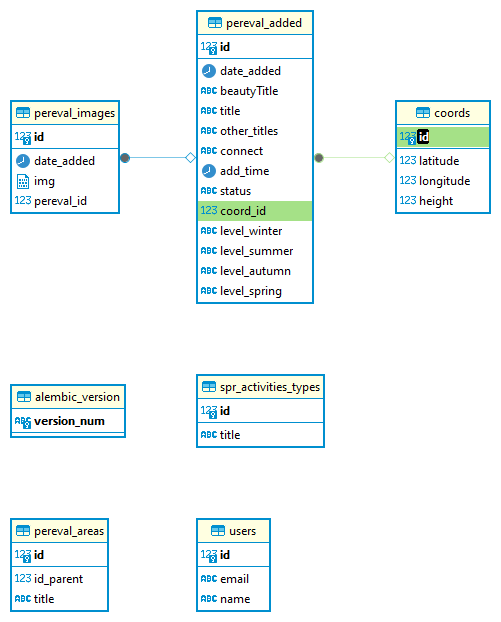
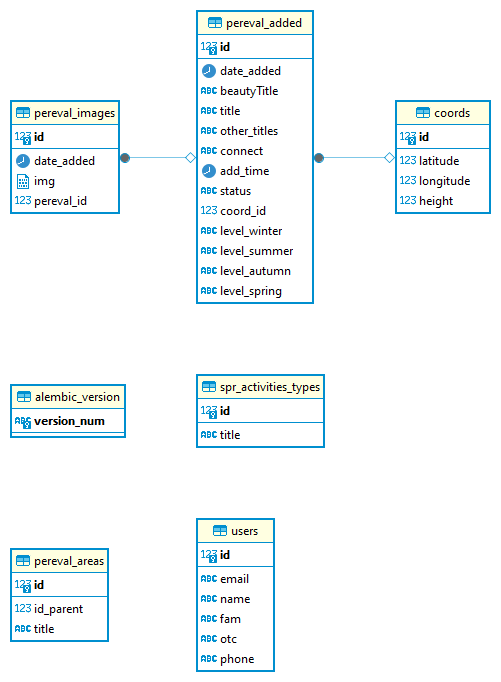
комментар кщroot

diff --git a/src/services/crud_pereval.py b/src/services/crud_pereval.py
@@ -1,0 +1,59 @@
+from sqlalchemy.future import select
+from db.db import db_dependency
+from models.pereval import PerevalAdded
+from models.users import Users
+from datetime import datetime
+from models.pereval import PerevalAdded, PerevalImages, Coords
+from schemas.pereval import PerevalCreate, ResponseMessage,User,Image,Coord,Level
+import base64
+import uuid
+from fastapi import HTTPException
+
+
+async def create_pereval(db: db_dependency, pereval: PerevalCreate) -> ResponseMessage:
+    try:
+        # Сохранение координат
+        db_coords = Coords(**pereval.coords.dict())
+        db.add(db_coords)
+        await db.commit()
+        await db.refresh(db_coords)
+
+        # Создание перевала
+        db_pereval = PerevalAdded(
+            beautyTitle=pereval.beauty_title,
+            title=pereval.title,
+            other_titles=pereval.other_titles,
+            connect=pereval.connect,
+            add_time=pereval.add_time.replace(tzinfo=None),  # Убираем временную зону
+            status="new",
+            coord_id=db_coords.id,
+            level_winter=pereval.level.winter,
+            level_summer=pereval.level.summer,
+            level_autumn=pereval.level.autumn,
+            level_spring=pereval.level.spring,
+        )
+        db.add(db_pereval)
+        await db.commit()
+        await db.refresh(db_pereval)
+
+        # Добавление изображений
+        for image in pereval.images:
+            # Декодируем изображение из base64
+            try:
+                image_data = base64.b64decode(image.data, validate=True)
+            except Exception as e:
+                raise HTTPException(status_code=400, detail=f"Ошибка при декодировании изображения: {e}")
+
+            # Сохраняем изображение в таблице
+            db_image = PerevalImages(pereval_id=db_pereval.id, img=image_data)
+            db.add(db_image)
+
+        await db.commit()
+
+        # Ответ с успехом
+        return ResponseMessage(status=200, message="Отправлено успешно", id=db_pereval.id)
+
+    except Exception as e:
+        # В случае ошибки в процессе работы с базой данных
+        return ResponseMessage(status=500, message=f"Ошибка подключения к базе данных: {str(e)}", id=None)
+

diff --git a/src/schemas/pereval.py b/src/schemas/pereval.py
@@ -1,0 +1,73 @@
+from pydantic import BaseModel, validator, HttpUrl
+from typing import Optional, List
+from datetime import datetime
+import re
+
+class Coord(BaseModel):
+    latitude: float
+    longitude: float
+    height: int
+
+
+class Level(BaseModel):
+    winter: Optional[str] = None
+    summer: Optional[str] = None
+    autumn: Optional[str] = None
+    spring: Optional[str] = None
+
+
+class Image(BaseModel):
+    data: str  # Может быть base64 или URL
+    title: str
+
+    @validator("data")
+    def validate_data(cls, value):
+        """Проверяет, является ли `data` валидным base64 или URL"""
+        if cls.is_valid_base64(value) or cls.is_valid_url(value):
+            return value
+        raise ValueError("data должно быть либо валидным base64, либо URL")
+
+    @staticmethod
+    def is_valid_base64(s: str) -> bool:
+        """Проверяет, является ли строка валидной base64"""
+        try:
+            # Длина должна быть кратна 4
+            if len(s) % 4 != 0:
+                return False
+            # Попытка декодирования
+            base64.b64decode(s, validate=True)
+            return True
+        except Exception:
+            return False
+
+    @staticmethod
+    def is_valid_url(s: str) -> bool:
+        """Проверяет, является ли строка валидным URL (изображение)"""
+        url_pattern = re.compile(r"^https?://.+\.(jpg|jpeg|png|gif|webp)$", re.IGNORECASE)
+        return bool(url_pattern.match(s))
+
+
+class User(BaseModel):
+    email: str
+    fam: str
+    name: str
+    otc: str
+    phone: str
+
+
+class PerevalCreate(BaseModel):
+    beauty_title: str
+    title: str
+    other_titles: Optional[str] = None
+    connect: Optional[str] = None
+    add_time: datetime
+    user: User
+    coords: Coord
+    level: Level
+    images: List[Image]
+
+
+class ResponseMessage(BaseModel):
+    status: int
+    message: Optional[str] = None
+    id: Optional[int] = None

diff --git a/alembic/versions/e8921e0ab629_initial_migration.py b/alembic/versions/e8921e0ab629_initial_migration.py
@@ -1,0 +1,38 @@
+"""Initial migration
+
+Revision ID: e8921e0ab629
+Revises: e29c1cb68853
+Create Date: 2025-02-09 12:16:40.040527
+
+"""
+from typing import Sequence, Union
+
+from alembic import op
+import sqlalchemy as sa
+
+
+# revision identifiers, used by Alembic.
+revision: str = 'e8921e0ab629'
+down_revision: Union[str, None] = 'e29c1cb68853'
+branch_labels: Union[str, Sequence[str], None] = None
+depends_on: Union[str, Sequence[str], None] = None
+
+
+def upgrade() -> None:
+    # ### commands auto generated by Alembic - please adjust! ###
+    op.add_column('users', sa.Column('fam', sa.String(), nullable=True))
+    op.add_column('users', sa.Column('otc', sa.String(), nullable=True))
+    op.add_column('users', sa.Column('phone', sa.String(), nullable=True))
+    op.drop_constraint('users_email_key', 'users', type_='unique')
+    op.create_index(op.f('ix_users_email'), 'users', ['email'], unique=True)
+    # ### end Alembic commands ###
+
+
+def downgrade() -> None:
+    # ### commands auto generated by Alembic - please adjust! ###
+    op.drop_index(op.f('ix_users_email'), table_name='users')
+    op.create_unique_constraint('users_email_key', 'users', ['email'])
+    op.drop_column('users', 'phone')
+    op.drop_column('users', 'otc')
+    op.drop_column('users', 'fam')
+    # ### end Alembic commands ###

diff --git a/src/main.py b/src/main.py
@@ -1,48 +1,20 @@
-# Импортируем FastAPI для создания веб-приложения
+
 import uvicorn
 from src.core.config import uvicorn_options
 from fastapi import APIRouter, FastAPI
 from sqlalchemy import text
-from db.db import db_dependency
-
-router = APIRouter()
+from src.api import api_router
 
 
-# экземпляр роутера - метод - путь
-@router.get("/path")
-def my_get_func():
-    pass
 
 
-@router.get('/ping')
-async def ping(db: db_dependency):
-    try:
-        await db.execute(text("SELECT 1"))
-        return True
-    except Exception:
-        return False
-
-
-@router.post("/path")
-def my_post_func():
-    pass
-
-
-@router.put("/path")
-def my_put_func():
-    pass
-
-
-@router.delete("/path")
-def my_delete_func():
-    pass
 
 
 app = FastAPI(
     docs_url="/api/openapi"
 )
 
-app.include_router(router)
+app.include_router(api_router)
 
 if __name__ == '__main__':
     print(uvicorn_options)

diff --git a/src/models/pereval.py b/src/models/pereval.py
@@ -42,6 +42,7 @@ class PerevalAdded(Base):
     images = relationship("PerevalImages", back_populates="pereval", cascade="all, delete, delete-orphan")
 
 
+# Модель для перевалов по районам
 class PerevalAreas(Base):
     __tablename__ = "pereval_areas"
     id = Column(Integer, primary_key=True, index=True)
@@ -49,6 +50,7 @@ class PerevalAreas(Base):
     title = Column(Text)
 
 
+# Модель для изображений перевалов
 class PerevalImages(Base):
     __tablename__ = "pereval_images"
     id = Column(Integer, primary_key=True, index=True)
@@ -58,6 +60,7 @@ class PerevalImages(Base):
     pereval = relationship("PerevalAdded", back_populates="images")
 
 
+# Модель для типов активностей
 class SprActivitiesTypes(Base):
     __tablename__ = "spr_activities_types"
     id = Column(Integer, primary_key=True, index=True)

diff --git a/src/api/v1/pereval.py b/src/api/v1/pereval.py
@@ -1,0 +1,13 @@
+from fastapi import FastAPI, Depends, HTTPException, APIRouter
+from sqlalchemy.ext.asyncio import AsyncSession
+from schemas.pereval import PerevalCreate, ResponseMessage, User, Image, Coord, Level
+from services.crud_pereval import create_pereval
+from db.db import db_dependency
+
+pereval_router = APIRouter(prefix="/submitData", tags=['submitData'])
+
+
+@pereval_router.post("/", response_model=ResponseMessage)
+async def submit_data(pereval: PerevalCreate, db: db_dependency):
+    result = await create_pereval(db, pereval)
+    return result

diff --git a/src/models/users.py b/src/models/users.py
@@ -3,8 +3,12 @@ from sqlalchemy.sql import func
 from .base import Base
 
 
+# Модель для пользователей
 class Users(Base):
     __tablename__ = "users"
     id = Column(Integer, primary_key=True, index=True)
-    email = Column(String, primary_key=False, unique=True)
+    email = Column(String, unique=True, index=True)
     name = Column(String)
+    fam = Column(String)
+    otc = Column(String)
+    phone = Column(String)

diff --git a/src/models/__init__.py b/src/models/__init__.py
@@ -1,5 +1,5 @@
 from .base import Base
-from .pereval import PerevalAdded, PerevalAreas, PerevalImages, SprActivitiesTypes
+from .pereval import PerevalAdded, PerevalAreas, PerevalImages, SprActivitiesTypes, Coords
 from .users import Users
 __all__ = [
     "Base",

diff --git a/src/api/__init__.py b/src/api/__init__.py
@@ -1,6 +1,8 @@
 from fastapi import APIRouter
-
+from api.v1.pereval import pereval_router
 
 
 api_router = APIRouter()
+
+api_router.include_router(pereval_router)
 
